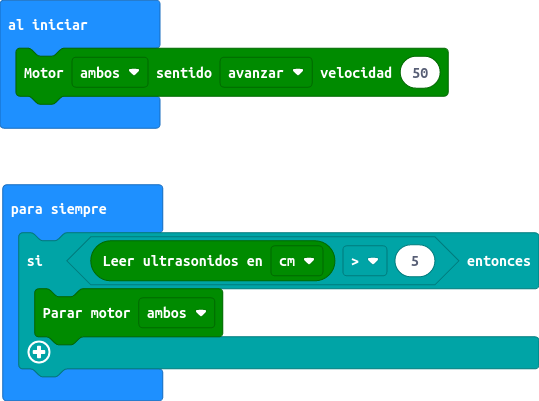
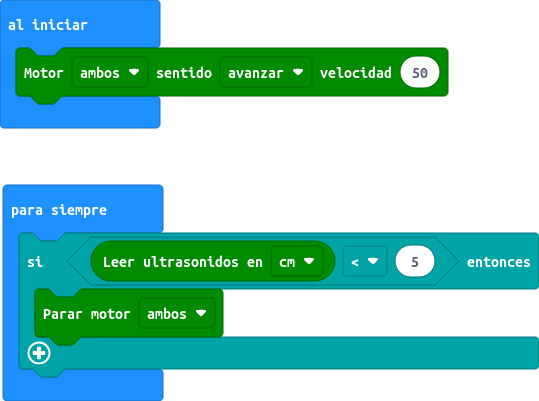
Actualizar main.blocks, main.ts

diff --git a/main.ts b/main.ts
@@ -1,6 +1,6 @@
 maqueen.motorRun(maqueen.Motors.All, maqueen.Dir.CW, 50)
 basic.forever(function () {
-    if (maqueen.Ultrasonic(PingUnit.Centimeters) > 5) {
+    if (maqueen.Ultrasonic(PingUnit.Centimeters) < 5) {
         maqueen.motorStop(maqueen.Motors.All)
     }
 })
